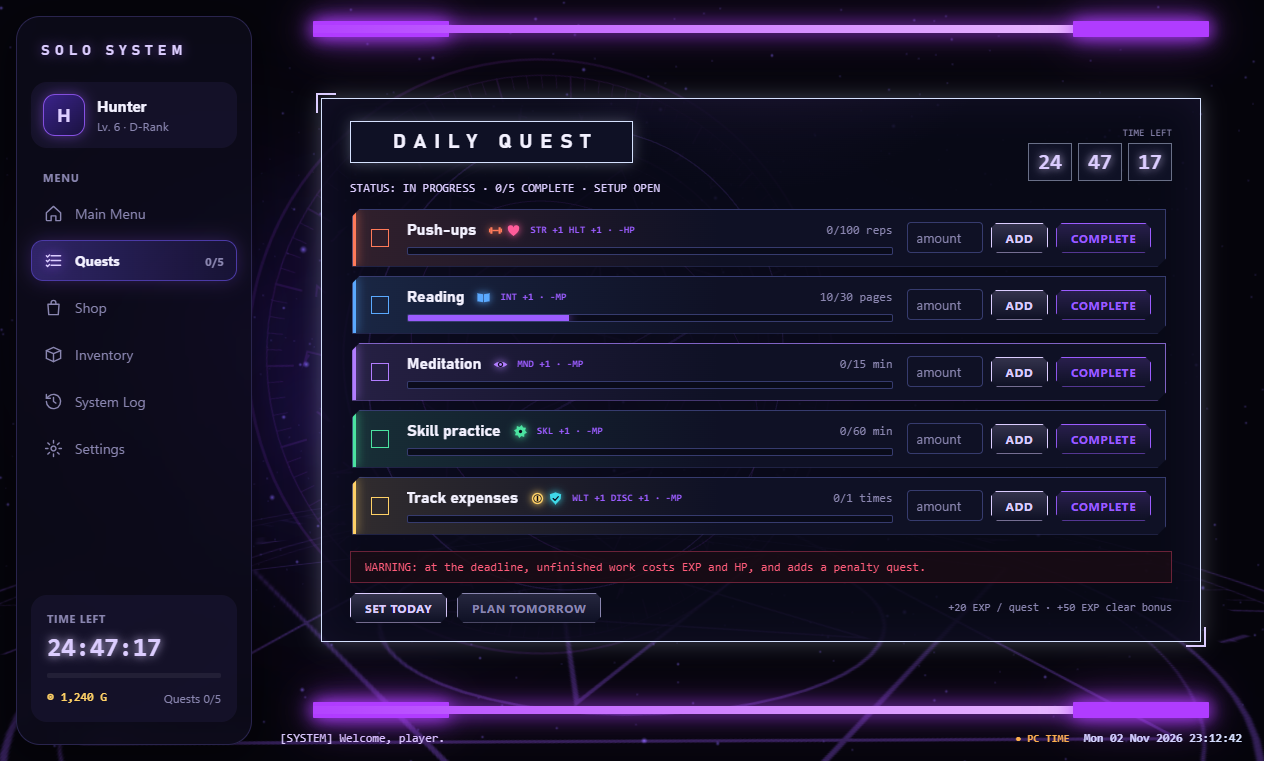
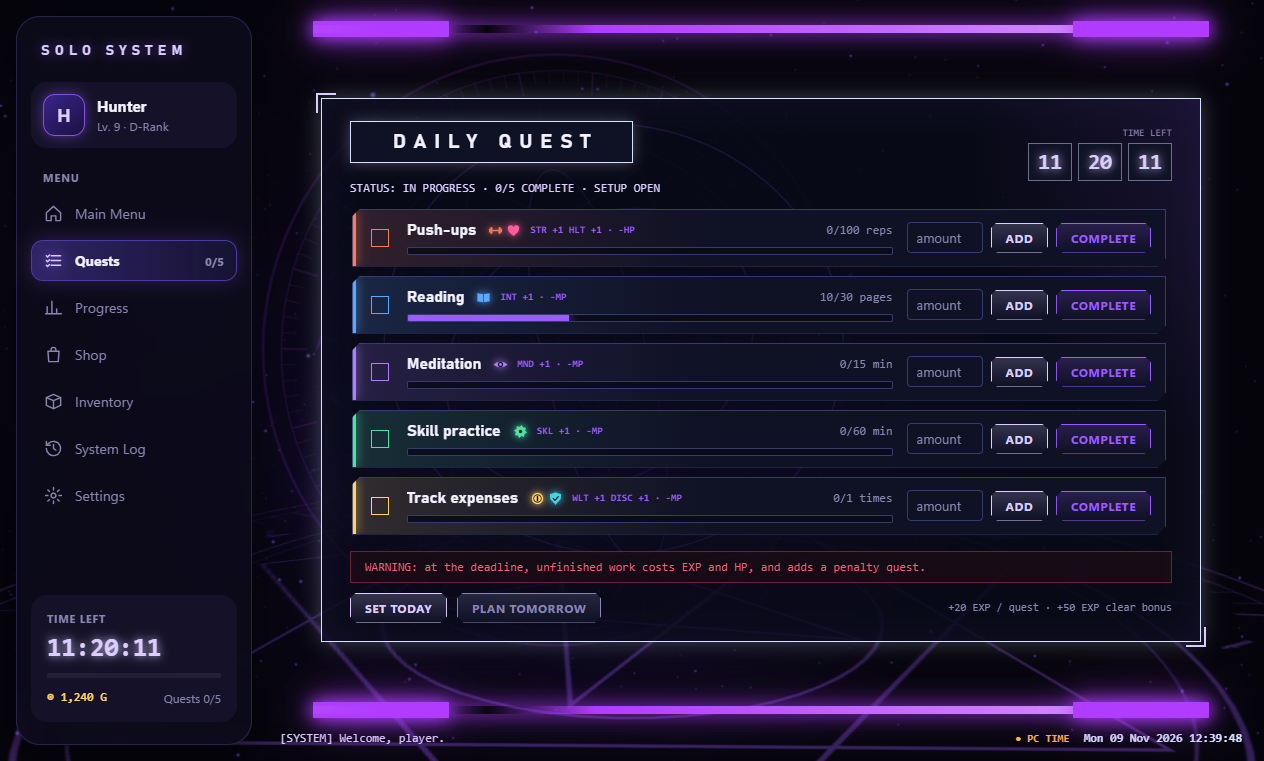
New feature cards, What's new for 1.2.1, new screenshots

diff --git a/index.html b/index.html
@@ -83,6 +83,9 @@
   ol.steps li::before { content: counter(s); position: absolute; left: 16px; top: 13px; width: 28px; height: 28px; border-radius: 50%;
     display: grid; place-items: center; font: 700 13px var(--mono); color: #fff; background: var(--neon); box-shadow: 0 0 12px var(--neon); }
   .note { color: var(--muted); font-size: 14px; margin-top: 14px; }
+  .news { max-width: 760px; margin: 0 auto; }
+  .news ul { margin: 10px 0 14px; padding-left: 20px; color: var(--ink); }
+  .news li { margin: 6px 0; }
   .about { text-align: center; color: var(--muted); max-width: 760px; margin: 0 auto; font-size: 15px; }
   .two { display: grid; grid-template-columns: 1fr 1fr; gap: 16px; }
   footer { border-top: 1px solid var(--line); padding: 30px 0 40px; text-align: center; color: var(--muted); font-size: 14px; }
@@ -130,6 +133,21 @@
       <div class="card"><span class="icon">🛒</span><b data-t="f4"></b><p data-t="f4t"></p></div>
       <div class="card"><span class="icon">🏆</span><b data-t="f5"></b><p data-t="f5t"></p></div>
       <div class="card"><span class="icon">🔄</span><b data-t="f6"></b><p data-t="f6t"></p></div>
+      <div class="card"><span class="icon">👹</span><b data-t="f7"></b><p data-t="f7t"></p></div>
+      <div class="card"><span class="icon">⭐</span><b data-t="f8"></b><p data-t="f8t"></p></div>
+      <div class="card"><span class="icon">📊</span><b data-t="f9"></b><p data-t="f9t"></p></div>
+      <div class="card"><span class="icon">🧩</span><b data-t="f10"></b><p data-t="f10t"></p></div>
+      <div class="card"><span class="icon">📤</span><b data-t="f11"></b><p data-t="f11t"></p></div>
+      <div class="card"><span class="icon">⚡</span><b data-t="f12"></b><p data-t="f12t"></p></div>
+    </div>
+  </section>
+
+  <section id="new">
+    <h2 data-t="new"></h2>
+    <div class="card news">
+      <b data-t="newv"></b>
+      <ul><li data-t="n1"></li><li data-t="n2"></li><li data-t="n3"></li><li data-t="n4"></li><li data-t="n5"></li><li data-t="n6"></li><li data-t="n7"></li></ul>
+      <a href="https://github.com/readrizen/solo-system-download/releases" data-t="allv"></a>
     </div>
   </section>
 
@@ -138,10 +156,10 @@
   <section>
     <h2 data-t="screens"></h2>
     <div class="gallery">
+      <img src="img/progress.png" alt="Progress page with calendar, daily EXP and stat growth" loading="lazy">
+      <img src="img/achievements.png" alt="Achievements and the weekly boss" loading="lazy">
       <img src="img/quests.png" alt="Daily quests" loading="lazy">
       <img src="img/shop.png" alt="Shop" loading="lazy">
-      <img src="img/log.png" alt="System log" loading="lazy">
-      <img src="img/settings.png" alt="Settings" loading="lazy">
     </div>
   </section>
 
@@ -190,6 +208,28 @@ const T = {
     upd: 'Yangilanishlar', updt: 'Sozlamalar → Yangilanish. Yangi versiya chiqqanda YANGILASH tugmasi paydo bo\'ladi.',
     uninst: 'O\'chirish', uninstt: 'Windows Sozlamalar → Ilovalar → Solo System → O\'chirish. Progressni saqlab qolish yoki o\'chirishni o\'zingiz tanlaysiz.',
     privacy: 'Maxfiylik', privacyt: 'Progressingiz faqat kompyuteringizda saqlanadi. Reytingda faqat ism, rank, daraja va gold ko\'rinadi. E-mail hech qachon ko\'rsatilmaydi.',
+    f7: 'Haftalik boss',
+    f7t: 'Bir haftada 5 kunni to\'liq bajaring va +200 EXP, +150 gold oling.',
+    f8: '17 ta yutuq',
+    f8t: 'Streak, daraja, statlar va bosslar uchun System yutuq beradi.',
+    f9: 'Natijalar sahifasi',
+    f9t: '35 kunlik kalendar, kunlik EXP grafigi va har bir statning o\'sishi.',
+    f10: 'Tayyor quest to\'plamlari',
+    f10t: 'Muvozanat, Sport, Talaba, Erta turish: bir bosishda boshlang.',
+    f11: 'Natijani ulashish',
+    f11t: 'Darajangiz va statlaringiz bilan chiroyli rasm yasab, do\'stlaringizga yuboring.',
+    f12: 'Original intro',
+    f12t: 'O\'ziga xos fon musiqa va chaqmoqli 3D uyg\'onish sahnasi.',
+    new: 'YANGILIKLAR',
+    newv: '1.2.1 VERSIYADA NIMA O\'ZGARDI',
+    n1: 'Yangi "Natijalar" sahifasi: kalendar, kunlik EXP, statlar o\'sishi va umumiy natijalar.',
+    n2: 'Haftalik boss: 5 kunni bajaring va +200 EXP, +150 gold oling.',
+    n3: '17 ta yutuq, har biri ochilganda System xabar beradi.',
+    n4: 'Quest muharririda 4 ta tayyor ro\'yxat.',
+    n5: 'ULASHISH tugmasi: natijangizni rasm qilib saqlang.',
+    n6: 'Intro uchun original fon musiqa, 3D sahnaga chaqmoq va yer titrashi qo\'shildi.',
+    n7: 'Sozlamalardan intro video va musiqa yuklash tugmalari olib tashlandi.',
+    allv: 'Barcha versiyalar',
     about: 'Solo System - Solo Leveling\'dan ilhomlangan bepul kundalik quest ilovasi va odat kuzatuvchisi (Windows). Bu mustaqil loyiha, rasmiy Solo Leveling asarlari va o\'yinlariga aloqasi yo\'q.',
     dev: 'DASTURCHI: ODILBEK', contact: 'Savol yoki xato topsangiz:', rights: 'Barcha huquqlar himoyalangan.',
     latest: 'Oxirgi versiya v{v} · Windows 10 / 11 (64-bit) · bepul',
@@ -213,6 +253,28 @@ const T = {
     upd: 'Updates', updt: 'Settings → Updates. When a new version is out, an UPDATE button appears.',
     uninst: 'Uninstall', uninstt: 'Windows Settings → Apps → Solo System → Uninstall. You choose whether to keep or delete your progress.',
     privacy: 'Privacy', privacyt: 'Your progress stays on your computer. The leaderboard shows only your name, rank, level and gold - never your e-mail.',
+    f7: 'Weekly boss',
+    f7t: 'Clear 5 days in one week to earn +200 EXP and +150 gold.',
+    f8: '17 achievements',
+    f8t: 'The System rewards streaks, levels, stats and boss wins.',
+    f9: 'Progress page',
+    f9t: 'A 35-day calendar, daily EXP chart and the growth of every stat.',
+    f10: 'Ready-made quest packs',
+    f10t: 'Balanced, Sport, Student, Early riser: start with one click.',
+    f11: 'Share your results',
+    f11t: 'Make a picture with your level and stats and send it to friends.',
+    f12: 'Original intro',
+    f12t: 'Its own background music and a 3D awakening scene with lightning.',
+    new: 'WHAT\'S NEW',
+    newv: 'WHAT CHANGED IN VERSION 1.2.1',
+    n1: 'New Progress page: calendar, daily EXP, stat growth and your totals.',
+    n2: 'Weekly boss: clear 5 days for +200 EXP and +150 gold.',
+    n3: '17 achievements, each announced by the System.',
+    n4: '4 ready-made quest lists in the quest editor.',
+    n5: 'SHARE button: save your results as a picture.',
+    n6: 'Original intro music, plus lightning and a trembling ground in the 3D scene.',
+    n7: 'Removed the intro video and music upload buttons from Settings.',
+    allv: 'All versions',
     about: 'Solo System is a free, Solo Leveling inspired daily quest app and gamified habit tracker for Windows. It is an independent fan-made project, not affiliated with the official Solo Leveling series or games.',
     dev: 'DEVELOPER: ODILBEK', contact: 'Questions or bugs:', rights: 'All rights reserved.',
     latest: 'Latest version v{v} · Windows 10 / 11 (64-bit) · free',
@@ -236,6 +298,28 @@ const T = {
     upd: 'Обновления', updt: 'Настройки → Обновления. Когда выйдет новая версия, появится кнопка ОБНОВИТЬ.',
     uninst: 'Удаление', uninstt: 'Параметры Windows → Приложения → Solo System → Удалить. Прогресс можно сохранить или удалить.',
     privacy: 'Конфиденциальность', privacyt: 'Прогресс хранится только на вашем компьютере. В рейтинге видны только имя, ранг, уровень и золото - e-mail никогда.',
+    f7: 'Недельный босс',
+    f7t: 'Выполните 5 дней за неделю и получите +200 EXP и +150 золота.',
+    f8: '17 достижений',
+    f8t: 'Система награждает за серии, уровни, статы и победы над боссами.',
+    f9: 'Страница прогресса',
+    f9t: 'Календарь на 35 дней, график EXP и рост каждого стата.',
+    f10: 'Готовые наборы квестов',
+    f10t: 'Баланс, Спорт, Студент, Ранний подъём: начните одним нажатием.',
+    f11: 'Делитесь результатами',
+    f11t: 'Создайте картинку с уровнем и статами и отправьте друзьям.',
+    f12: 'Оригинальное вступление',
+    f12t: 'Своя фоновая музыка и 3D-сцена пробуждения с молниями.',
+    new: 'ЧТО НОВОГО',
+    newv: 'ЧТО ИЗМЕНИЛОСЬ В ВЕРСИИ 1.2.1',
+    n1: 'Новая страница «Прогресс»: календарь, EXP за день, рост статов и итоги.',
+    n2: 'Недельный босс: выполните 5 дней и получите +200 EXP и +150 золота.',
+    n3: '17 достижений, о каждом сообщает Система.',
+    n4: '4 готовых списка в редакторе квестов.',
+    n5: 'Кнопка ПОДЕЛИТЬСЯ: сохраните результаты картинкой.',
+    n6: 'Оригинальная музыка вступления, молнии и дрожь земли в 3D-сцене.',
+    n7: 'Из настроек убраны кнопки загрузки видео и музыки вступления.',
+    allv: 'Все версии',
     about: 'Solo System - бесплатное приложение с ежедневными квестами и трекер привычек для Windows, вдохновлённое Solo Leveling. Это независимый проект, не связанный с официальными произведениями и играми Solo Leveling.',
     dev: 'РАЗРАБОТЧИК: ODILBEK', contact: 'Вопросы и ошибки:', rights: 'Все права защищены.',
     latest: 'Последняя версия v{v} · Windows 10 / 11 (64-bit) · бесплатно',
